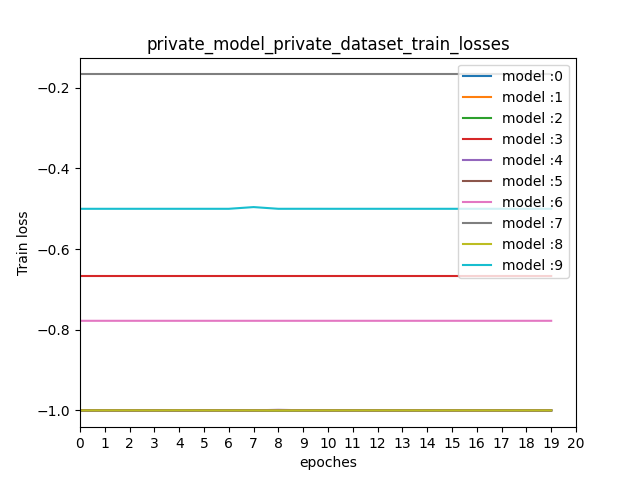
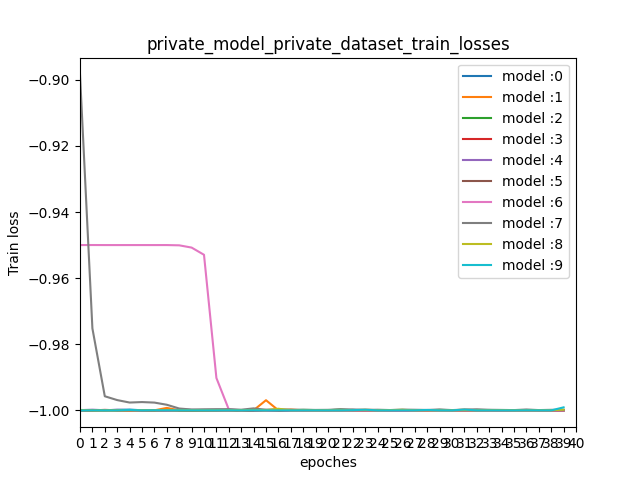
update

diff --git a/collaborative_train_balanced_mnist.py b/collaborative_train_balanced_mnist.py
@@ -21,6 +21,21 @@ class DatasetSplit(Dataset):
         image,label = self.dataset[self.idxs[item]]
         return torch.tensor(image),torch.tensor(label)
 
+def list_add(a,b):
+    c = []
+    for i in range(len(a)):
+        d = []
+        for j in range(len(a[i])):
+            d.append(a[i][j]+b[i][j])
+        c.append(d)
+    return c
+
+def get_avg_result(temp_sum_result,num_client):
+    for itemx in range(len(temp_sum_result)):
+        for itemy  in range(len(temp_sum_result[itemx])):
+            temp_sum_result[itemx][itemy] /=num_client
+    return temp_sum_result
+
 def collaborative_private_model_mnist_train(args):
 
     device ='cuda' if args.gpu else 'cpu'
@@ -53,25 +68,37 @@ def collaborative_private_model_mnist_train(args):
 
         for batch_idx, (images, labels) in enumerate(trainloader):
             images,labels = images.to(device),labels.to(device)
-            # labels.shape torch.Size([128])
-            temp_sum_result = []
+            # 初始化存储结果的东西
+            temp_sum_result = [ [] for _ in range(len(labels))]
+            for item in range(len(temp_sum_result)):
+                for i in range(args.output_classes):
+                    temp_sum_result[item].append(0)
+
             # Make output together
             for n, model in enumerate(model_list):
                 with torch.no_grad():
                     model.to(device)
                     model.eval()
                     outputs = model(images)
-                    pred_labels = outputs
+                    pred_labels = outputs.tolist() # 转成list
                     # print(pred_labels.shape) # torch.Size([128, 16])
                     # _,pred_labels = torch.max(outputs,1)
                     # pred_labels = pred_labels.view(-1)
                     # print(pred_labels.shape) # torch.Size([2048])
-                    temp_sum_result.append(pred_labels)
-            temp_sum_result = torch.stack(temp_sum_result) # torch.Size([10, 128, 16])
+                    temp_sum_result = list_add(pred_labels,temp_sum_result) # 把每次的结果都给加到一起
+            #         print(len(temp_sum_result))
+            #         print(len(temp_sum_result[0]))
+            # print(type(temp_sum_result))
+            # print(type(temp_sum_result[0]))
+            # temp_sum_result = torch.stack(temp_sum_result) # torch.Size([10, 128, 16])
+            # temp_sum_result /=args.user_number
             # print(temp_sum_result.shape)
-            labels = torch.mean(temp_sum_result.float(),dim=0) # get the output
+            # labels = torch.mean(temp_sum_result.float(),dim=0) # get the output
             # print(labels.shape) # torch.Size([128, 16])
-            labels = labels.type(torch.LongTensor)
+            temp_sum_result = get_avg_result(temp_sum_result,args.user_number) # 根据参与训练的时候用户把结果除以对应的数量
+            labels = torch.tensor(temp_sum_result)
+            # print(labels.size())
+            # print((labels[0]).size())
             labels = labels.to(device)
             for n,model in enumerate (model_list):
                 model.to(device)

diff --git a/option.py b/option.py
@@ -8,7 +8,7 @@ def args_parser():
     parser.add_argument('--gpu',type=int,default=1,help="choose to use GPU or CPU")
     parser.add_argument('--dataset',type=str,default='mnist',help='name of dataset')
     parser.add_argument('--user_number',type=int,default=10,help='number of user join in Federated Learning')
-    parser.add_argument('--lr',type=float,default=0.001,help='learning rate')
+    parser.add_argument('--lr',type=float,default=0.0001,help='learning rate')
     parser.add_argument('--optimizer',type=str,default='adam',help='type of optimizer')
     parser.add_argument('--epoch',type=int,default=10,help='training epoch')
 
@@ -20,7 +20,7 @@ def args_parser():
     parser.add_argument('--private_dataset_index',type=str,default='Src/private_dataset_index.txt',help='in order to fix the private dataset,beacuse each client has only a few of dataset')
 
     # private_model_femnist_balanced
-    parser.add_argument('--privateepoch',type=int,default=20,help='training epoch')
+    parser.add_argument('--privateepoch',type=int,default=40,help='training epoch')
     parser.add_argument('--private_dataset',type=str,default='FEMNIST',help='private dataset for each client')
     parser.add_argument('--privateurl',type=str,default='Src\PrivateModel',help='private model location')
     parser.add_argument('--new_private_training',type=bool,default=False,help='whether train model from initial condition')
@@ -28,13 +28,13 @@ def args_parser():
     # Collaborative_private_model_femnist_balanced
     parser.add_argument('--new_collaborative_training',type=bool,default=False,help='whether train model from initial condition')
     parser.add_argument('--Collaborativeurl',type=str,default='Src\CollaborativeModel',help='collaborative model location')
-    parser.add_argument('--collaborative_epoch',type=int,default=4,help='collaborative_epoch for train on public mnist')
-
+    parser.add_argument('--output_classes',type=int,default=16,help='set the output points')
+    parser.add_argument('--collaborative_epoch',type=int,default=2,help='collaborative_epoch for train on public mnist')
     # Collaborative_step
-    parser.add_argument('--Communicationepoch',type=int,default=10,help='Collaobrative epoch in Step3')
+    parser.add_argument('--Communicationepoch',type=int,default=20,help='Collaobrative epoch in Step3')
 
     # collaborative_private_model_femnist_balanced
-    parser.add_argument('--Communication_private_epoch',type=int,default=8 ,help='Local private training during colaboratiive time')
+    parser.add_argument('--Communication_private_epoch',type=int,default=2 ,help='Local private training during colaboratiive time')
 
     args = parser.parse_args()
 

diff --git a/private_model_femnist_balanced.py b/private_model_femnist_balanced.py
@@ -49,7 +49,7 @@ def private_dataset_train(args):
         elif args.optimizer == 'adam':
             optimizer = torch.optim.Adam(model.parameters(), lr=args.lr,
                                      weight_decay=1e-4)
-        trainloader = DataLoader(DatasetSplit(train_dataset,list(user_groups[n])),batch_size=32,shuffle=True)
+        trainloader = DataLoader(DatasetSplit(train_dataset,list(user_groups[n])),batch_size=5,shuffle=True)
         criterion = nn.NLLLoss().to(device)
         train_epoch_losses = []
         print('Begin Private Training')
@@ -69,7 +69,8 @@ def private_dataset_train(args):
                 train_batch_losses.append(loss.item())
             loss_avg = sum(train_batch_losses)/len(train_batch_losses)
             train_epoch_losses.append(loss_avg)
-        torch.save(model.state_dict(),'Src/PrivateModel/LocalModel{}Type{}Epoch{}.pkl'.format(n,model_type_list[n],args.privateepoch))
+        torch.save(model.state_dict(),'Src/PrivateModel/LocalModel{}Type{}.pkl'.format(n,model_type_list[n],args.privateepoch))
+        # torch.save(model.state_dict(),'Src/PrivateModel/LocalModel{}Type{}Epoch{}.pkl'.format(n,model_type_list[n],args.privateepoch))
         private_model_private_dataset_train_losses.append(train_epoch_losses)
     plt.figure()
     for i,val in enumerate(private_model_private_dataset_train_losses):

diff --git a/data_utils.py b/data_utils.py
@@ -161,10 +161,10 @@ def FEMNIST_iid(dataset,num_users):
         num_class_item = 3  # 用于达到作者目的！
         dict_users = {}
         for i in range(num_users):
-            dict_users[i]=set()
+            dict_users[i]=set() # create the set dictionary
         for i in range(num_users):
             for key in dict.keys():
-                temp = set(np.random.choice(dict[key], num_class_item, replace=False))
+                temp = set(np.random.choice(dict[key], num_class_item, replace=False)) # 样本无重复值
                 dict_users[i] = dict_users[i] | temp
                 dict[key] = list(set(dict[key]) - temp)
         f = open(args.private_dataset_index,'w')
@@ -189,9 +189,11 @@ class args:
 # get_public_dataset(args)
 # init_private_dataset(args)
 # # data_train,data_test = get_private_dataset(args)
+
 # data_train,data_test = get_private_dataset_balanced(args)
 # print(FEMNIST_iid(data_train,10)[9])
-
+# for item in FEMNIST_iid(data_train,10)[9]:
+#     print(data_train[item])
 
 # def generateIndex(dataset):
 #     dict_private_index = {}

diff --git a/demo.py b/demo.py
@@ -202,10 +202,13 @@ import matplotlib.pyplot as plt
 #
 # )
 
-from  data_utils import  get_private_dataset_balanced,FEMNIST_iid
+# from  data_utils import  get_private_dataset_balanced,FEMNIST_iid
+# from option import args_parser
+# if __name__ == '__main__':
+#     args = args_parser()
+#     train_dataset, test_dataset = get_private_dataset_balanced(args)
+#     user_groups = FEMNIST_iid(train_dataset, args.user_number)
 
-from option import args_parser
-if __name__ == '__main__':
-    args = args_parser()
-    train_dataset, test_dataset = get_private_dataset_balanced(args)
-    user_groups = FEMNIST_iid(train_dataset, args.user_number)
+marix=[[1,1,1,1],[2,2,2,2],[3,3,3,3]]
+print(len(marix))
+print(marix.size())

diff --git a/private_model_femnist_Accuracy.py b/private_model_femnist_Accuracy.py
@@ -23,7 +23,7 @@ def test_accuracy_privateinitialmodel(args):
         loss, total, correct = 0.0, 0.0, 0.0
         criterion = nn.NLLLoss().to(device)
 
-        testloader = DataLoader(test_dataset, batch_size=64, shuffle=False)
+        testloader = DataLoader(test_dataset, batch_size=128, shuffle=False)
         for batch_idx, (images, labels) in enumerate(testloader):
             images, labels = images.to(device), labels.to(device)
             outputs = model(images)
